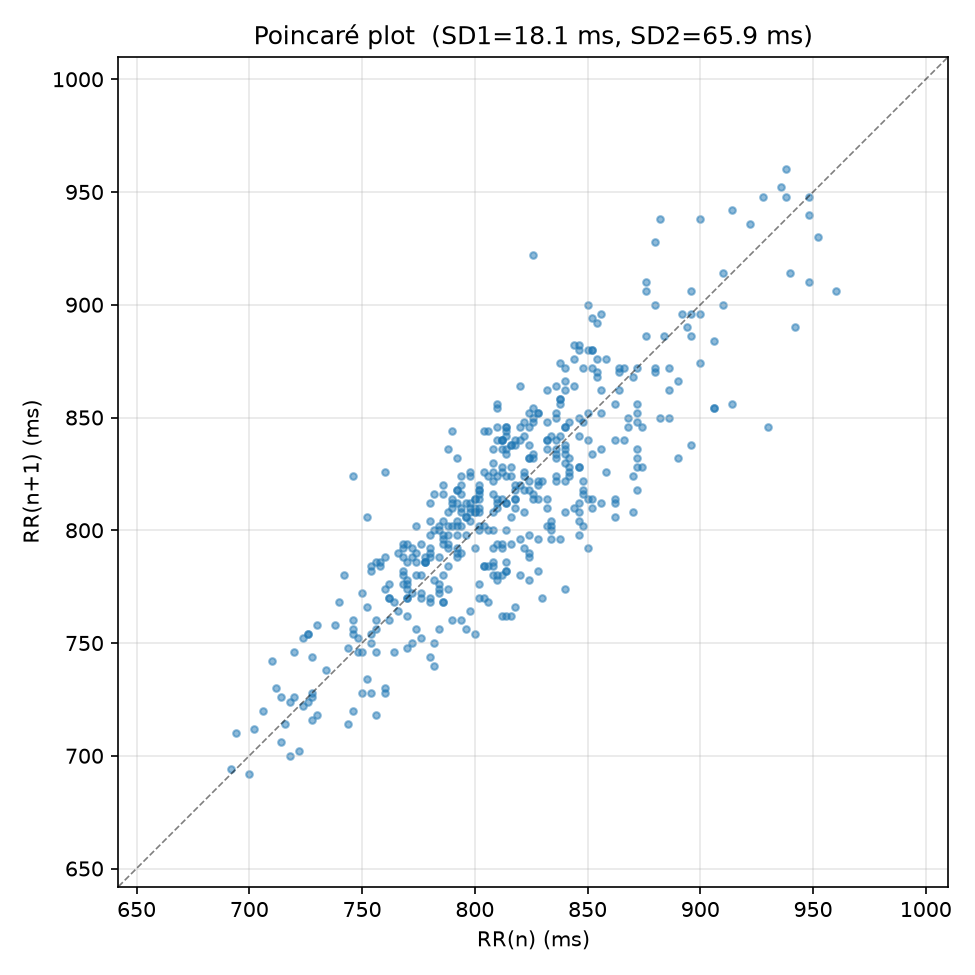
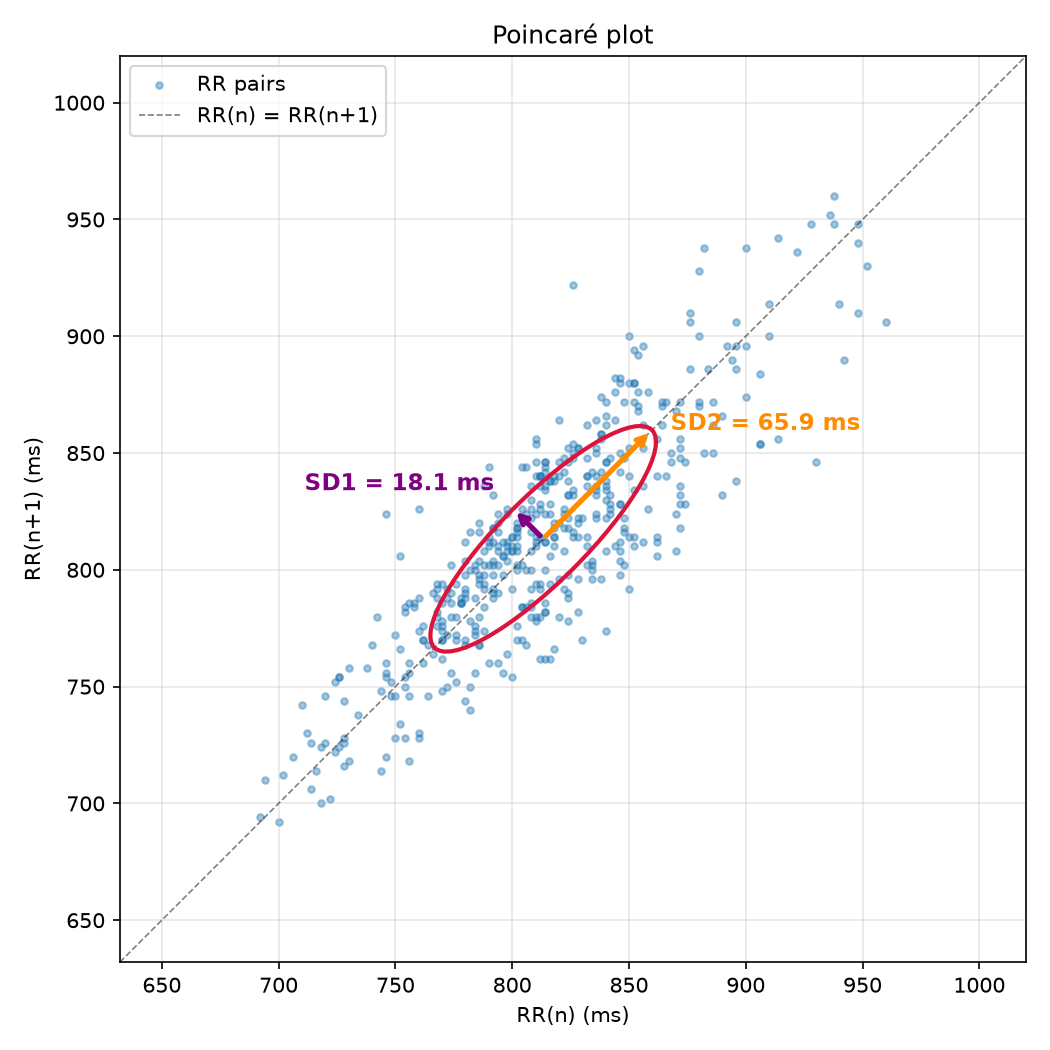
Match assignment output spec: 4-panel HRV report, Poincaré ellipse with SD1/SD2 arrows

diff --git a/hrv_analysis.py b/hrv_analysis.py
@@ -2,11 +2,12 @@
 """HRV analysis of my_ecg_5min.csv (500 Hz AD8232 recording).
 
 R-peak detection on the raw `adc` column with neurokit2, then time- and
-frequency-domain HRV plus a Poincaré plot.
+frequency-domain HRV plus a Poincaré plot with fitted SD1/SD2 ellipse.
 
 Outputs:
-    ecg_rpeaks.png   - ECG overview with detected R peaks
-    poincare.png     - Poincaré plot RR(n) vs RR(n+1)
+    hrv_report.png   - 4-panel report: ECG+R peaks, RR trend,
+                       time-domain metrics, frequency-domain PSD
+    poincare.png     - Poincaré plot with ellipse and SD1/SD2 arrows
     hrv_report.txt   - summary report with all metrics
 """
 
@@ -14,9 +15,12 @@ import matplotlib
 matplotlib.use("Agg")
 
 import matplotlib.pyplot as plt
+from matplotlib.patches import Ellipse
 import neurokit2 as nk
 import numpy as np
 import pandas as pd
+from scipy.interpolate import interp1d
+from scipy.signal import welch
 
 FS = 500
 
@@ -30,57 +34,138 @@ _, info = nk.ecg_peaks(clean, sampling_rate=FS, correct_artifacts=True)
 rpeaks = info["ECG_R_Peaks"]
 
 rr_ms = np.diff(rpeaks) / FS * 1000.0
-mean_hr = 60000.0 / rr_ms.mean()
+rr_t = rpeaks[1:] / FS                     # time of each RR interval (s)
+hr_inst = 60000.0 / rr_ms                  # instantaneous HR per beat
+hr_mean, hr_min, hr_max = hr_inst.mean(), hr_inst.min(), hr_inst.max()
 
 # --- 2. HRV metrics ----------------------------------------------------
 hrv_t = nk.hrv_time(rpeaks, sampling_rate=FS)
-hrv_f = nk.hrv_frequency(rpeaks, sampling_rate=FS)
+hrv_f = nk.hrv_frequency(rpeaks, sampling_rate=FS, psd_method="welch",
+                         normalize=False)
 hrv_nl = nk.hrv_nonlinear(rpeaks, sampling_rate=FS)
 
 rmssd = float(hrv_t["HRV_RMSSD"].iloc[0])
 sdnn = float(hrv_t["HRV_SDNN"].iloc[0])
 pnn50 = float(hrv_t["HRV_pNN50"].iloc[0])
-lf = float(hrv_f["HRV_LF"].iloc[0])
-hf = float(hrv_f["HRV_HF"].iloc[0])
+lf = float(hrv_f["HRV_LF"].iloc[0])        # ms^2
+hf = float(hrv_f["HRV_HF"].iloc[0])        # ms^2
 lfhf = float(hrv_f["HRV_LFHF"].iloc[0])
 sd1 = float(hrv_nl["HRV_SD1"].iloc[0])
 sd2 = float(hrv_nl["HRV_SD2"].iloc[0])
 
-# --- 3. ECG overview with R peaks --------------------------------------
-fig, axes = plt.subplots(2, 1, figsize=(14, 7))
-t = np.arange(len(ecg)) / FS
-axes[0].plot(t, clean, lw=0.4)
-axes[0].plot(rpeaks / FS, clean[rpeaks], "r.", ms=4)
-axes[0].set_title(f"ECG (cleaned) with {len(rpeaks)} R peaks — full recording")
-axes[0].set_xlabel("Time (s)")
+# PSD of the evenly-resampled RR tachogram (for the report panel)
+interp = interp1d(rr_t, rr_ms, kind="cubic", fill_value="extrapolate")
+t_even = np.arange(rr_t[0], rr_t[-1], 1 / 4.0)   # 4 Hz resampling
+rr_even = interp(t_even)
+freq, psd = welch(rr_even - rr_even.mean(), fs=4.0, nperseg=min(256, len(rr_even)))
 
-seg = (t >= 60) & (t < 70)  # 10-second zoom
-axes[1].plot(t[seg], clean[seg], lw=0.8)
+# --- 3. 4-panel HRV report ---------------------------------------------
+fig, axes = plt.subplots(2, 2, figsize=(15, 9))
+
+# (a) ECG with R peaks (10-s window so beats are visible)
+ax = axes[0, 0]
+t = np.arange(len(ecg)) / FS
+seg = (t >= 60) & (t < 70)
+ax.plot(t[seg], clean[seg], lw=0.8)
 pk_seg = rpeaks[(rpeaks >= 60 * FS) & (rpeaks < 70 * FS)]
-axes[1].plot(pk_seg / FS, clean[pk_seg], "rv", ms=8)
-axes[1].set_title("Zoom: 60-70 s")
-axes[1].set_xlabel("Time (s)")
-fig.tight_layout()
-fig.savefig("ecg_rpeaks.png", dpi=150)
+ax.plot(pk_seg / FS, clean[pk_seg], "rv", ms=8)
+ax.set_title(f"ECG with R-peak detection  ({len(rpeaks)} beats total)")
+ax.set_xlabel("Time (s)")
+ax.set_ylabel("Amplitude")
+
+# (b) RR interval trend
+ax = axes[0, 1]
+ax.plot(rr_t, rr_ms, lw=0.8, color="tab:green")
+ax.axhline(rr_ms.mean(), color="k", ls="--", lw=0.8, alpha=0.6,
+           label=f"mean {rr_ms.mean():.0f} ms")
+ax.set_title("RR interval trend")
+ax.set_xlabel("Time (s)")
+ax.set_ylabel("RR (ms)")
+ax.legend()
+
+# (c) Time-domain metrics panel
+ax = axes[1, 0]
+ax.axis("off")
+ax.set_title("Time-domain HRV")
+lines = [
+    ("Mean HR", f"{hr_mean:.1f} bpm  (min {hr_min:.0f} / max {hr_max:.0f})"),
+    ("SDNN", f"{sdnn:.1f} ms"),
+    ("RMSSD", f"{rmssd:.1f} ms"),
+    ("pNN50", f"{pnn50:.1f} %"),
+    ("SD1 / SD2", f"{sd1:.1f} / {sd2:.1f} ms"),
+]
+for i, (k, v) in enumerate(lines):
+    ax.text(0.08, 0.85 - i * 0.16, k, fontsize=14, fontweight="bold",
+            transform=ax.transAxes)
+    ax.text(0.45, 0.85 - i * 0.16, v, fontsize=14, transform=ax.transAxes)
+
+# (d) Frequency-domain PSD with LF/HF bands
+ax = axes[1, 1]
+ax.plot(freq, psd, lw=1.2, color="tab:blue")
+ax.fill_between(freq, psd, where=(freq >= 0.04) & (freq < 0.15),
+                alpha=0.4, color="tab:orange", label=f"LF = {lf:.0f} ms²")
+ax.fill_between(freq, psd, where=(freq >= 0.15) & (freq < 0.40),
+                alpha=0.4, color="tab:green", label=f"HF = {hf:.0f} ms²")
+ax.set_xlim(0, 0.5)
+ax.set_title(f"RR power spectrum (Welch)   LF/HF = {lfhf:.2f}")
+ax.set_xlabel("Frequency (Hz)")
+ax.set_ylabel("PSD (ms²/Hz)")
+ax.legend()
+
+fig.suptitle("HRV Analysis Report — my_ecg_5min.csv", fontsize=15)
+fig.tight_layout(rect=[0, 0, 1, 0.97])
+fig.savefig("hrv_report.png", dpi=150)
 plt.close(fig)
 
-# --- 4. Poincaré plot --------------------------------------------------
-fig, ax = plt.subplots(figsize=(6.5, 6.5))
-ax.scatter(rr_ms[:-1], rr_ms[1:], s=10, alpha=0.5)
-lim = [rr_ms.min() - 50, rr_ms.max() + 50]
-ax.plot(lim, lim, "k--", lw=0.8, alpha=0.5)  # identity line
+# --- 4. Poincaré plot with ellipse and SD1/SD2 arrows -------------------
+fig, ax = plt.subplots(figsize=(7, 7))
+x, y = rr_ms[:-1], rr_ms[1:]
+cx, cy = x.mean(), y.mean()
+ax.scatter(x, y, s=10, alpha=0.4, label="RR pairs")
+
+lim = [rr_ms.min() - 60, rr_ms.max() + 60]
+ax.plot(lim, lim, "k--", lw=0.8, alpha=0.5, label="RR(n) = RR(n+1)")
+
+# Ellipse: semi-major = SD2 along the identity line, semi-minor = SD1
+ax.add_patch(Ellipse((cx, cy), width=2 * sd2, height=2 * sd1, angle=45,
+                     facecolor="none", edgecolor="crimson", lw=2, zorder=4))
+u = np.sqrt(0.5)  # unit vector component for 45 degrees
+ax.annotate("", xy=(cx + sd2 * u, cy + sd2 * u), xytext=(cx, cy),
+            arrowprops=dict(arrowstyle="->", color="darkorange", lw=2.5))
+ax.annotate("", xy=(cx - sd1 * u, cy + sd1 * u), xytext=(cx, cy),
+            arrowprops=dict(arrowstyle="->", color="purple", lw=2.5))
+ax.text(cx + sd2 * u + 8, cy + sd2 * u, f"SD2 = {sd2:.1f} ms",
+        color="darkorange", fontsize=11, fontweight="bold")
+ax.text(cx - sd1 * u - 8, cy + sd1 * u + 8, f"SD1 = {sd1:.1f} ms",
+        color="purple", fontsize=11, fontweight="bold", ha="right")
+
 ax.set_xlim(lim)
 ax.set_ylim(lim)
 ax.set_xlabel("RR(n) (ms)")
 ax.set_ylabel("RR(n+1) (ms)")
-ax.set_title(f"Poincaré plot  (SD1={sd1:.1f} ms, SD2={sd2:.1f} ms)")
+ax.set_title("Poincaré plot")
 ax.set_aspect("equal")
 ax.grid(True, alpha=0.3)
+ax.legend(loc="upper left")
 fig.tight_layout()
 fig.savefig("poincare.png", dpi=150)
 plt.close(fig)
 
 # --- 5. Text report ----------------------------------------------------
+if lfhf > 2.0:
+    balance = "LF/HF 比值偏高，顯示記錄期間交感神經活性相對占優（清醒靜坐狀態常見）。"
+elif lfhf < 0.5:
+    balance = "LF/HF 比值偏低，顯示副交感（迷走）神經活性相對占優。"
+else:
+    balance = "LF/HF 比值接近 1，交感與副交感活性大致平衡。"
+interp_text = (
+    f"平均心率 {hr_mean:.0f} bpm，屬正常靜息範圍。"
+    f"SDNN {sdnn:.0f} ms 與 RMSSD {rmssd:.0f} ms 顯示整體變異正常、"
+    f"短期逐拍變異中等。{balance}"
+    f"Poincaré SD2/SD1 = {sd2 / sd1:.2f}，長期變異明顯大於短期變異，"
+    "與上述頻域結果一致。本結果僅為訊號分析，非醫療診斷。"
+)
+
 report = f"""HRV 分析報告 — my_ecg_5min.csv
 ================================================
 
@@ -91,18 +176,17 @@ report = f"""HRV 分析報告 — my_ecg_5min.csv
 
 R 波偵測 (neurokit2, 原始 adc 訊號)
   R 波數           : {len(rpeaks)}
-  RR 間隔平均       : {rr_ms.mean():.1f} ms
-  RR 間隔範圍       : {rr_ms.min():.0f} ~ {rr_ms.max():.0f} ms
-  平均心率          : {mean_hr:.1f} bpm
+  RR 間隔平均       : {rr_ms.mean():.1f} ms  (範圍 {rr_ms.min():.0f} ~ {rr_ms.max():.0f} ms)
+  心率 平均/最低/最高 : {hr_mean:.1f} / {hr_min:.1f} / {hr_max:.1f} bpm
 
 時域 HRV
-  RMSSD            : {rmssd:.1f} ms
   SDNN             : {sdnn:.1f} ms
+  RMSSD            : {rmssd:.1f} ms
   pNN50            : {pnn50:.1f} %
 
-頻域 HRV
-  LF (0.04-0.15 Hz): {lf:.4f} (normalized)
-  HF (0.15-0.40 Hz): {hf:.4f} (normalized)
+頻域 HRV (Welch, 絕對功率)
+  LF (0.04-0.15 Hz): {lf:.1f} ms²
+  HF (0.15-0.40 Hz): {hf:.1f} ms²
   LF/HF ratio      : {lfhf:.2f}
 
 非線性 (Poincaré)
@@ -110,9 +194,12 @@ R 波偵測 (neurokit2, 原始 adc 訊號)
   SD2              : {sd2:.1f} ms
   SD2/SD1          : {sd2 / sd1:.2f}
 
+解讀
+  {interp_text}
+
 輸出檔案
-  ecg_rpeaks.png   - ECG 全程與 60-70 秒放大圖，R 波標記
-  poincare.png     - 龐加萊圖
+  hrv_report.png   - 4 合 1 報告圖 (ECG+R 波 / RR 趨勢 / 時域指標 / 頻譜)
+  poincare.png     - 龐加萊圖 (含 SD1/SD2 橢圓與箭頭)
 """
 
 with open("hrv_report.txt", "w") as f:
